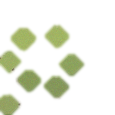
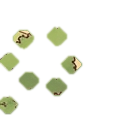
Sharper village with bigger people, wheel zoom, click-to-enter shops, walk behind trees, leafy picked bushes, potion shop
Claude-Session: https://claude.ai/code/session_017azUT76zqG8nQU8ZAxEkHm

diff --git a/tools/gather_overlays.py b/tools/gather_overlays.py
@@ -40,21 +40,41 @@ for mp, spots in SPOTS.items():
             fruit |= ((b > 110) & (b - r > 35) & (b - g > 25))  # 블루베리
         fruit = ndimage.binary_opening(fruit, iterations=1)
         fruit = ndimage.binary_fill_holes(ndimage.binary_closing(fruit, iterations=2))
-        fruit = ndimage.binary_dilation(fruit, iterations=5)  # 열매 테두리·꼭지까지
+        fruit = ndimage.binary_dilation(fruit, iterations=4)  # 열매 테두리·꼭지까지
         filled = sub.copy()
         lum = sub.mean(axis=2)
         lab, n = ndimage.label(fruit)
-        rng = np.random.default_rng(1)
+        H, W = fruit.shape
+        avoid = ndimage.binary_dilation(fruit, iterations=2)
+        offs = sorted([(dx, dy) for dx in range(-40, 41, 2) for dy in range(-40, 41, 2) if (dx, dy) != (0, 0)],
+                      key=lambda o: o[0] ** 2 + o[1] ** 2)
         for i in range(1, n + 1):
             blob = lab == i
-            ring = ndimage.binary_dilation(blob, iterations=5) & ~ndimage.binary_dilation(blob, iterations=1)
-            ring &= (lum > 85) & ~fruit
+            ring = ndimage.binary_dilation(blob, iterations=4) & ~ndimage.binary_dilation(blob, iterations=1)
+            ring &= (lum > 70) & ~fruit
             if ring.sum() < 5:
                 continue
             col = np.median(sub[ring], axis=0)
-            filled[blob] = col + rng.normal(0, 4, (blob.sum(), 3))
-        filled = filled * 0.85 + ndimage.gaussian_filter(filled, (1.5, 1.5, 0)) * 0.15
-        alpha = ndimage.gaussian_filter(ndimage.binary_dilation(fruit, iterations=2).astype(float), 1.2)
+            ys, xs = np.nonzero(blob)
+            # 열매 대신 근처 잎 무늬를 통째로 옮겨 붙여요(흐린 얼룩이 아니라 잎 그림이 이어져 보여요)
+            best = None
+            for dx, dy in offs[:600]:
+                sy, sx = ys + dy, xs + dx
+                if sy.min() < 0 or sx.min() < 0 or sy.max() >= H or sx.max() >= W:
+                    continue
+                if avoid[sy, sx].any():
+                    continue
+                d = np.abs(sub[sy, sx].mean(axis=0) - col).sum()
+                if best is None or d < best[0]:
+                    best = (d, dx, dy)
+                if d < 25:
+                    break
+            if best is not None and best[0] < 90:
+                filled[ys, xs] = sub[ys + best[2], xs + best[1]]
+            else:
+                rng = np.random.default_rng(1)
+                filled[blob] = col + rng.normal(0, 4, (blob.sum(), 3))
+        alpha = ndimage.gaussian_filter(ndimage.binary_dilation(fruit, iterations=1).astype(float), 0.8)
         rgba = np.dstack([np.clip(filled, 0, 255), alpha * 255]).astype(np.uint8)
         name = mp.split('/')[-1] + '_' + sid
         Image.fromarray(rgba, 'RGBA').save(os.path.join(OUT, name + '.png'))
